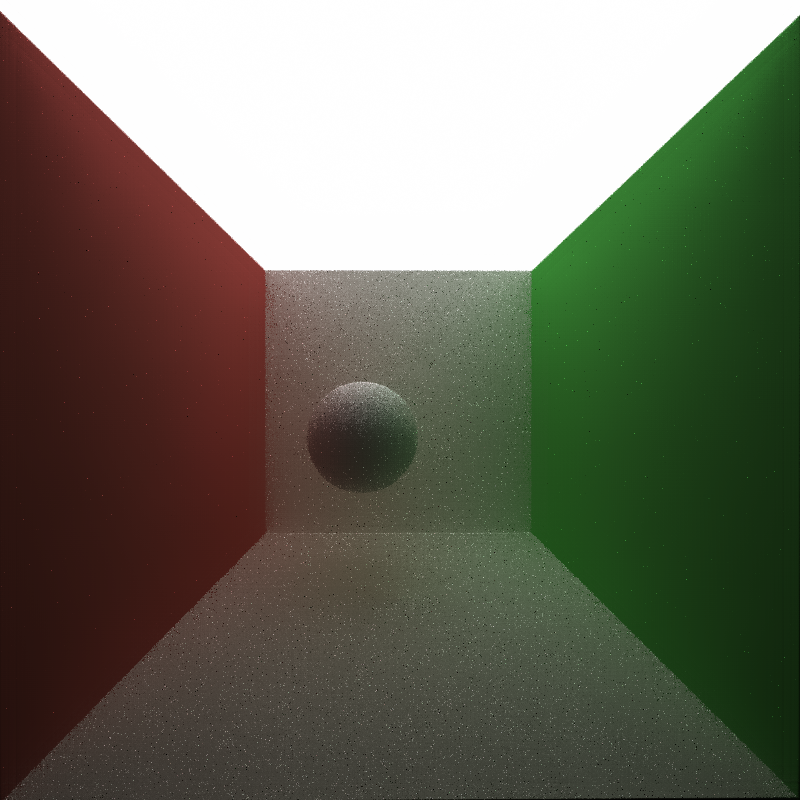
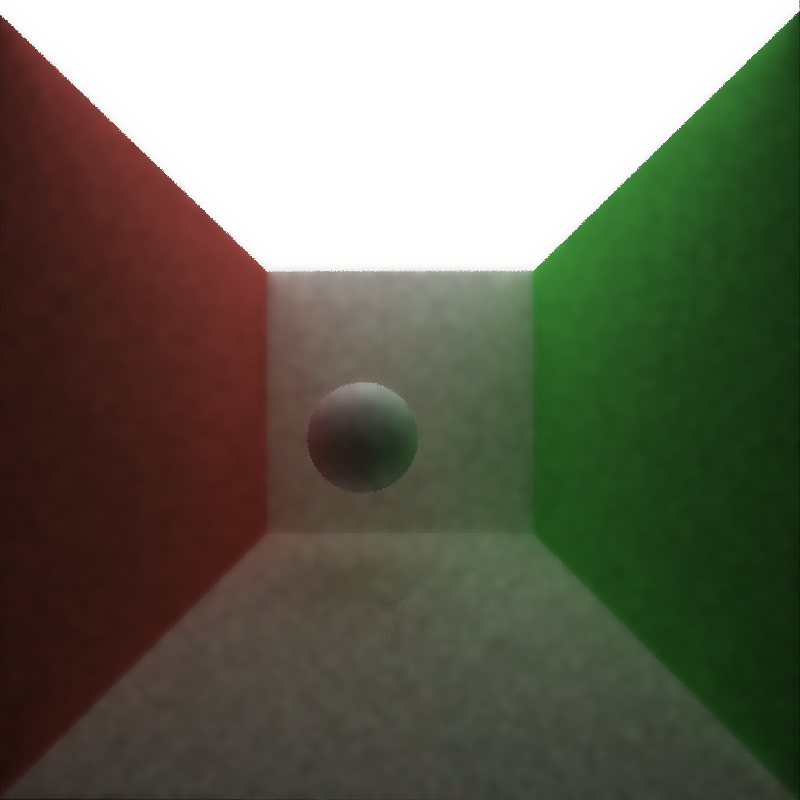
update README

diff --git a/README.md b/README.md
@@ -23,19 +23,56 @@ These images include geometry information of the scene such as normals, intersec
 ### **Denoised Result (10 iterations)** 
 | Raw Pathtraced  | Gaussian Blur | Denoised |
 |---|---|---|
-|![](img/10.png)|![](img/g.png)|![](img/deonised_20.png)|
+|![](img/10.png)|![](img/g.png)|![](img/20.png)|
 
 
 ## Performance Analysis
-* how much time denoising adds to your renders
+### **how much time denoising adds to your renders**
   
   For an 800 x 800 image, the denoiser adds approximately 1.2 ms per iteration to get to a visually acceptable image.
  
   ![](img/time.png)
-* how denoising influences the number of iterations needed to get an "acceptably smooth" result
+### **how denoising influences the number of iterations needed to get an "acceptably smooth" result**
 
-| Raw Pathtraced  | Gaussian Blur | Denoised |
+| Raw Pathtraced at 200 iteration | Denoised at 20 iteraion|
+|---|---|
+|![](img/200.png)|![](img/20.png)|
+
+The denoiser can achieve a relatively acceptable image with a lot less iterations than a raw image. 
+The example above shows that under the same resolution, the denoiser can get a decent result with only 20 iterations compared to 200 iterations for the raw pathtraced one. This is ten times less iterations needed to retrieve a nice looking result. This is very subjective.
+### **how denoising at different resolutions impacts runtime**
+
+![](img/res.png)
+
+From the chart above, when I quadruple the resolution, the time needed to denoise through one iteration is around to be tripled. Thus, I think this is a linear variation.
+
+### **how varying filter sizes affect performance**
+
+![](img/f.png)
+
+With the increase of the size of the filter, the amount of time to denoise also increases, but it is not linear. When the filter size reaches a certain threshold, the amount of time to denoise will not increase too much any more.
+
+### **how visual results vary with filter size -- does the visual quality scale uniformly with filter size?**
+
+| filter size 1  | filter size 10 | filter size 100 |
 |---|---|---|
-|![](img/10.png)|![](img/g.png)|![](img/deonised_20.png)|
-* how denoising at different resolutions impacts runtime
-* how varying filter sizes affect performance
+|![](img/1.png)|![](img/1000.png)|![](img/100.png)|
+
+With all the other weights set to the same, the image becomes more vague when I increase the size of the filter.
+
+### **how effective/ineffective is this method with different material types**
+
+| diffuse  | reflective | refractive |
+|---|---|---|
+|![](img/diffuse.png)|![](img/20.png)|![](img/glass.png)|
+
+The denoiser works well on diffuse and reflective material, but for the refractive material, it blurs the inside of the material so it looks unclear.
+
+
+### **how do results compare across different scenes - for example, between cornell.txt and cornell_ceiling_light.txt. Does one scene produce better denoised results? Why or why not?**
+
+| cornell | cornell_ceiling_light |
+|---|---|
+|![](img/24.png)|![](img/20.png)|
+
+These two images are both rendered within 24 iterations and denoised with the same parameter. However, the result is very clear. From the comparison, I think the scene with a much bigger light will be better for the denoiser for it will converge the image faster. For the smaller light on the left, it looks like the denoiser does not work at all.
